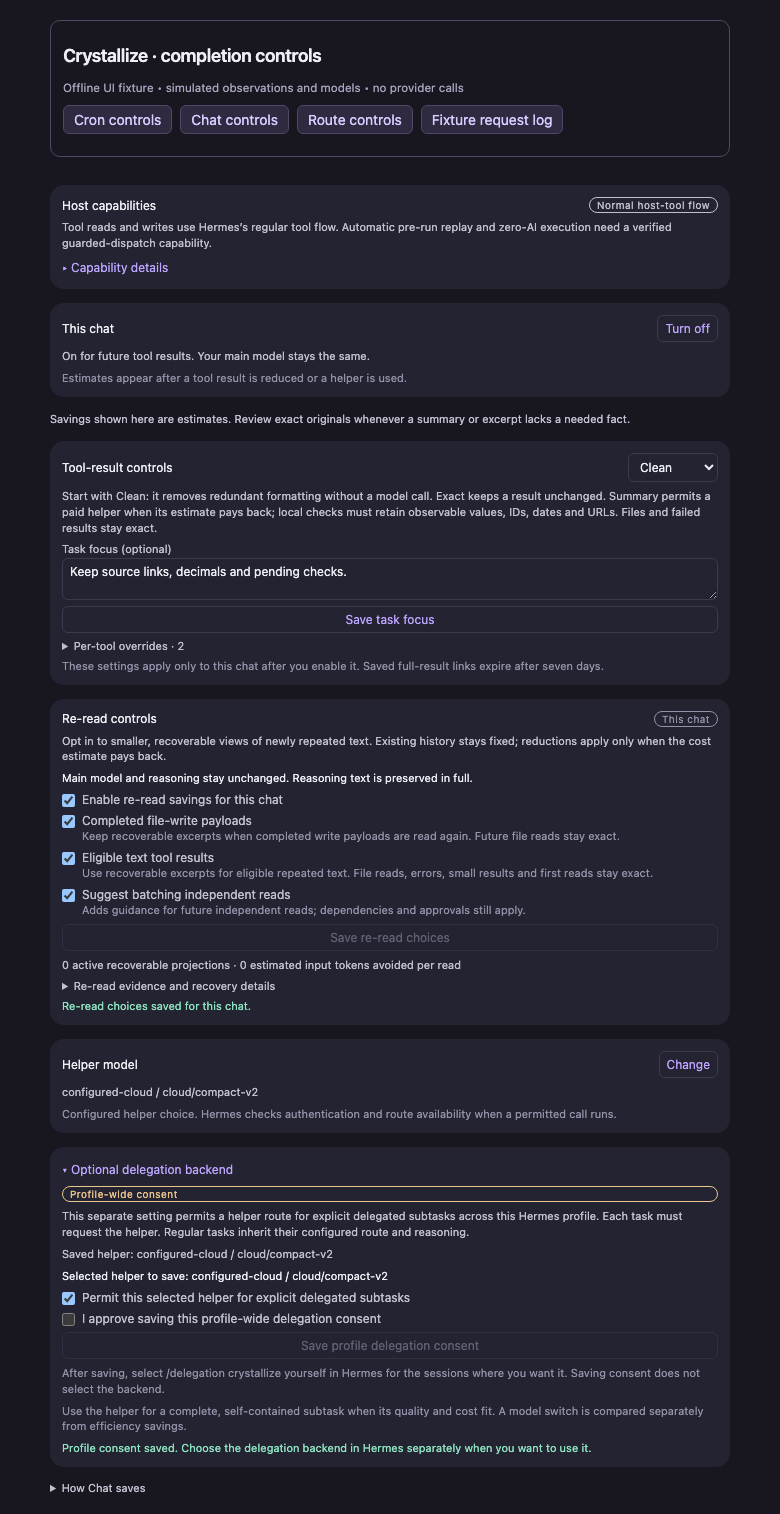
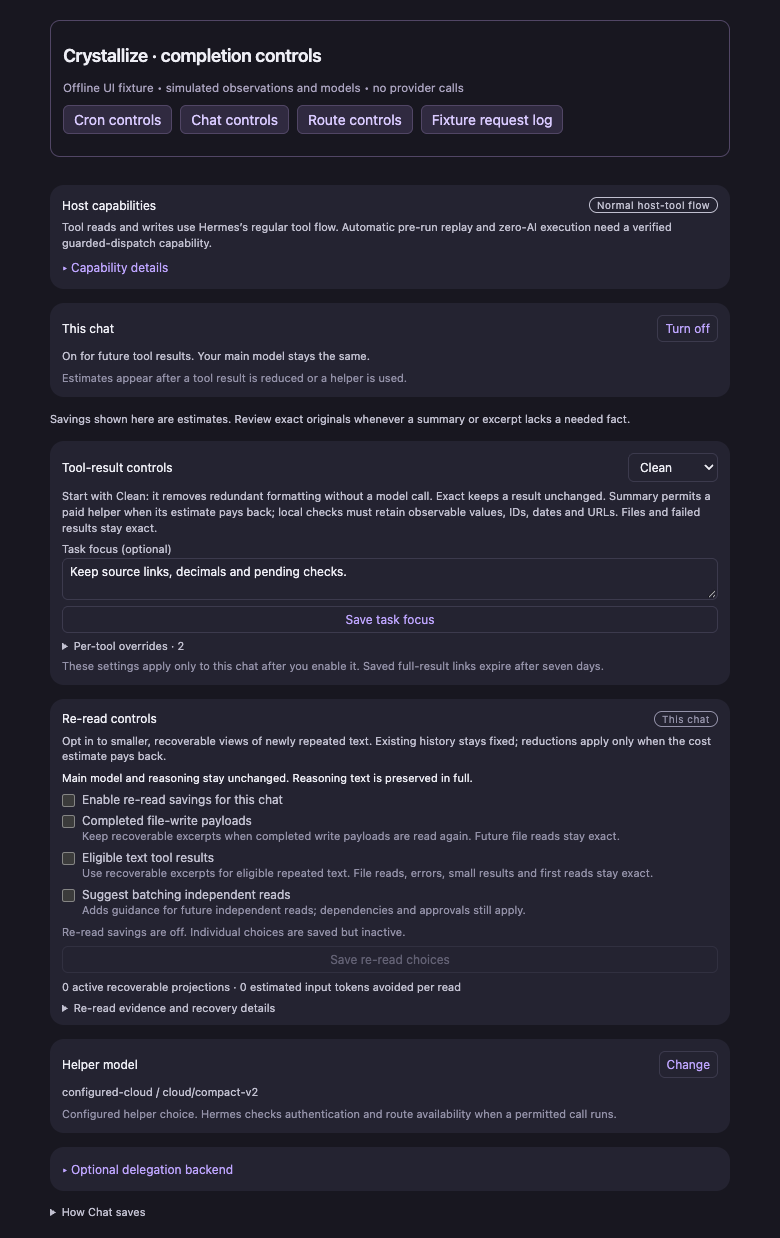
Clarify submission evidence and refresh current UI captures

diff --git a/catalog/generate_entry.py b/catalog/generate_entry.py
@@ -250,7 +250,7 @@ def build_entry(manifest: dict[str, Any], sha: str, repo_url: str, analysis: dic
              "maintainer": manifest["author"], "tier": "community", "category": "automation",
              "requires_hermes": manifest["requires_hermes"], "version": manifest["version"],
              "title": "Crystallize", "readme": True,
-             "known_issues": ["Submission bundle only; no catalog listing or admission is claimed.",
+             "known_issues": ["No live savings percentage at unchanged reasoning is established for this public-SDK candidate.",
                               "Frozen fixture checks do not prove semantic equivalence or universal provider coverage."],
              "capabilities": {key: manifest[key] for key in CAPABILITIES}}
     if analysis["core_imports_requiring_public_api_review"]:
@@ -295,16 +295,21 @@ def submission_text(entry: dict[str, Any], readiness: dict[str, Any]) -> str:
     return f"""# Crystallize catalog submission draft
 
 Technical state: **{readiness.get('technical_readiness', 'exact-pin verification required')}**.
-This file and the entry in this plugin repository are a preparation bundle. No upstream
-catalog PR, catalog listing, maintainer approval, or marketplace compliance is claimed.
+This file and the entry in this plugin repository are a preparation bundle. They do
+not themselves establish an upstream PR, catalog listing, maintainer approval, or
+marketplace compliance. Independently checked publication/review status is recorded
+separately; only a maintainer-merged upstream catalog entry establishes listing.
 
 Pin: `{entry['sha']}` in {entry['repo']}; version `{entry['version']}`;
 Hermes floor `{entry['requires_hermes']}`. The pin is an existing plugin feature commit;
 the later catalog-only bundle commit must not replace it with a self-reference.
 
-Crystallize reduces repeated chat and cron work through explicit per-chat/per-job
-controls, guarded routines and local receipts. Main reasoning is not reduced by this
-validation. Observable contracts and frozen fixtures do not establish semantic equivalence.
+Crystallize targets repeated context and read planning through explicit per-chat/per-job
+controls and local receipts. Main reasoning is not reduced. No live savings percentage
+at unchanged reasoning is established for this public-SDK candidate. The research,
+writing, data, analysis, coding and cron fixtures are offline scope, not proof of
+universal live task/provider coverage or semantic equivalence. Automatic pre-run/no-AI
+routines remain unavailable on the reviewed SDK; their older savings do not transfer.
 
 Disclosures for reviewer and installer:
 

diff --git a/tests/test_cross_domain_completion.py b/tests/test_cross_domain_completion.py
@@ -371,7 +371,8 @@ def test_catalog_bundle_pins_real_existing_commit_and_never_claims_admission(tmp
     assert audit["ok"] == (not audit["findings"])
     assert report["technical_static_ready"] == (audit["ok"] and report["technical_checks"]["reviewable_payloads"])
     assert report["technical_ready_for_submission"] is False  # no exact-pin verification/screenshots supplied
-    assert "No upstream" in (tmp_path / "submission.md").read_text()
+    submission = (tmp_path / "submission.md").read_text().replace("\n", " ")
+    assert "only a maintainer-merged upstream catalog entry establishes listing" in submission
 
 
 def test_catalog_disclosures_do_not_claim_unpinned_file_handoffs():

diff --git a/docs/submission-status.md b/docs/submission-status.md
@@ -1,0 +1,42 @@
+# Submission evidence and activation
+
+Reviewed on 7 November 2026. Source/CI validation, live effectiveness, catalog
+admission and activation of an installed copy are separate states.
+
+| Question | Current evidence | What remains |
+| --- | --- | --- |
+| Savings at unchanged reasoning | Main/reasoning settings are preserved in code and offline tests | No live percentage is established for the public-SDK candidate. Measure paired, same-model/same-requested-reasoning tasks before quoting a scoped result |
+| Mainstream tasks and providers | Research, writing, data, analysis, coding and cron fixtures; configurable host routes | Publish the exact live task/provider matrix, failures and quality checks. Fixtures cannot prove universal compatibility |
+| Automatic cron without AI | Explicit normal-host-tool plans, input tuning and observable normal-run evidence | The reviewed public nested dispatcher cannot certify normal guards. Pre-run/no-AI execution stays unavailable; older savings from those modes do not transfer |
+| Marketplace | Exact-commit submission bundle, host/security/Desktop validation and public-source audit | An upstream catalog PR and maintainer merge are required. `catalog_ready: false` means listing is not established; inspect `technical_ready_for_submission` separately |
+| Local installation | A workspace test validates that checkout only | Resolve the installed plugin link, compare its Git revision and separately activate the reviewed candidate. CI does not hot-reload a running gateway |
+
+The historical Nous attempts belong to the earlier private-dependency build.
+Their latest cumulative reservation is US$1.80 of the previously authorized
+US$2 total; actual billing is unknown. Do not reset that budget, count failed
+calls as free, or reuse those outcomes as current-build validation. Only Nous
+Portal is authorized for live work in this review. A broader fresh matrix needs
+separate budget authorization; no new paid call was made to refresh this bundle.
+
+For a meaningful comparison, freeze realistic source inputs and observable
+answer requirements, keep the main model and requested reasoning identical,
+counterbalance baseline/candidate order, and record actual served routes, cache
+metadata, output/reasoning usage when exposed, errors and helper overhead. Report
+only the measured scope. Unknown billing or unexposed effective wire reasoning
+must remain explicit; neither an estimated list-price delta nor a character
+ratio is a verified cash saving. The current frozen-answer harness also does not
+measure an entire normal chat or cron loop.
+
+## Activating an installed checkout
+
+Before updating, confirm the checkout is clean and preserve its current commit.
+Resolve any pending feature PR first, then fast-forward to the reviewed `main`
+commit; never reset or overwrite local edits. Use the normal, profile-scoped
+Hermes gateway restart only after explicit authorization to interrupt the live
+gateway. Verify the restarted process loaded the intended plugin revision and
+check its startup diagnostics. Re-read selected cron/chat controls before a live
+trial; changing source files alone does not establish that the fixes are active.
+
+The earlier validation authorization excluded gateway restarts and production
+job edits. Refreshing this submission does not expand that scope. The plugin
+does not pull, install, restart or self-update itself.

diff --git a/docs/validation-results.md b/docs/validation-results.md
@@ -4,6 +4,22 @@ These results distinguish the current follow-up and public-SDK migration from th
 implementation in this follow-up to PR #7. They do not establish universal model
 compatibility, semantic equivalence or marketplace admission.
 
+## Current candidate after PRs #11 and #12 — 7 November 2026
+
+- The follow-up suite passed **1,253 tests, 1 optional dispatch-audit case
+  skipped**, with the reviewed helper SDK source supplied. It includes 14 new
+  usage-boundary/reply-recovery cases and 32 desktop behavior checks.
+- Six PR checks passed: Python 3.11/3.13, admission on both reviewed host
+  snapshots, and actual helper usage conversion from both SDK snapshots.
+- The local validator passed 16 checks with zero warnings in an isolated home;
+  the independent public API audit found no production private access.
+- These are offline/source/admission results, with **zero new paid provider
+  calls**. They establish no savings percentage, universal live task/provider
+  coverage, or automatic zero-AI cron behavior.
+- Workspace validation does not activate the separate installed checkout or
+  restart the gateway. [Submission status](submission-status.md) records the
+  separate evidence, budget, listing and activation boundaries.
+
 ## Review fixes — 7 November 2026, version 0.4.1
 
 - **1,216 standalone tests passed, 1 optional source-audit case skipped** on

diff --git a/README.md b/README.md
@@ -2,7 +2,7 @@
   <img src="assets/crystallize-logo.svg" alt="Crystallize" width="380">
 </p>
 
-**Spend less on repeated work in Hermes chats and cron jobs while preserving your main model and reasoning settings.**
+**Reduce repeated context in Hermes chats and cron jobs while preserving your main model and reasoning settings.**
 
 Crystallize targets repeated context, duplicated file text, unnecessary tool
 schemas and stable read steps. It keeps originals recoverable, records helper
@@ -13,6 +13,14 @@ The architecture uses Hermes's host-owned model facade and provider declarations
 across cloud routes. This is a compatibility design, not a claim that every
 provider, model, operating system or task has been tested. Missing prices,
 capabilities, usage and guarded execution stay unknown or fail closed.
+
+**Current evidence:** this public-SDK candidate has no verified live savings
+percentage at unchanged reasoning. Research, writing, data, analysis, coding and
+cron coverage comes from offline fixtures; it does not prove every mainstream
+task or provider works live. Automatic zero-AI/pre-run routines are unavailable
+on the reviewed SDK. Its older cron measurements cannot be carried over to this
+implementation. See [submission status](docs/submission-status.md) for the
+measurement, marketplace and local activation boundaries.
 
 ## Chat and Cron
 

diff --git a/assets/review/README.md b/assets/review/README.md
@@ -1,7 +1,8 @@
 # Offline Desktop review captures
 
 These are actual React/Chromium UI captures with an offline simulated backend.
-The captures were refreshed from version 0.4.1 on 7 November 2026.
+The captures were refreshed from the version 0.4.1 candidate containing the
+PR #11 and PR #12 fixes on 7 November 2026.
 The visible fixture banner identifies simulated observations and model routes.
 No provider calls were made; displayed usage/cost figures are fixture data,
 not live savings evidence. The same plugin UI source is used by Hermes Desktop.
@@ -9,7 +10,7 @@ not live savings evidence. The same plugin UI source is used by Hermes Desktop.
 - `public-capabilities-and-host-plan-desktop.png`: current unsupported automatic
   dispatch, pending normal host-tool flow and explicit plan promotion.
 - `public-routes-and-manual-pricing-desktop.png`: declared routes with unverified
-  authentication, separate helper selection and acknowledged user price estimates.
+  authentication, separate helper selection and the explicit user-pricing form.
 - `chat-quality-and-onboarding-desktop.png`: lossless Clean guidance, observable
   summary checks, exact-result recovery and unchanged main reasoning.
 

diff --git a/docs/marketplace.md b/docs/marketplace.md
@@ -5,7 +5,10 @@ maintainer approval.** Technical readiness is derived from exact-pin evidence;
 human admission remains a separate gate.
 
 The published upstream catalog rules and plugin API were reviewed at commit
-`90d6b98fd86d20981ee06ddd5b7d93e4320f26a4`. Re-read the
+`90d6b98fd86d20981ee06ddd5b7d93e4320f26a4`. The canonical catalog rules were
+re-read for this submission at upstream `8153953654574f8624dc3652b1df7162ead425a8`;
+the separate published API facts remain pinned to their reviewed snapshot.
+Re-read the
 [canonical rules](https://github.com/NousResearch/hermes-agent/blob/main/plugin-catalog/README.md)
 before submission. They require a real full SHA, capabilities matching the pinned
 code, public surfaces, install/security/Desktop validation, truthful disclosures

diff --git a/catalog/README.md b/catalog/README.md
@@ -21,3 +21,9 @@ validation evidence, screenshot provenance and human gates separately. It create
 pass while admission/listing remains pending. It never fetches, reads credentials,
 mutates Git, hides warnings or fabricates validation. Commit generated files in a
 later catalog-only commit, keeping their pin on the reviewed feature commit.
+
+After independently checking public pin availability or creating an upstream
+review PR, record that operator evidence and its real URL in the generated
+readiness/submission files. The offline generator cannot establish those facts.
+Keep `catalog_ready` and `admission.listed` false until an upstream maintainer
+actually merges the entry; a draft/open PR is review, not listing.
